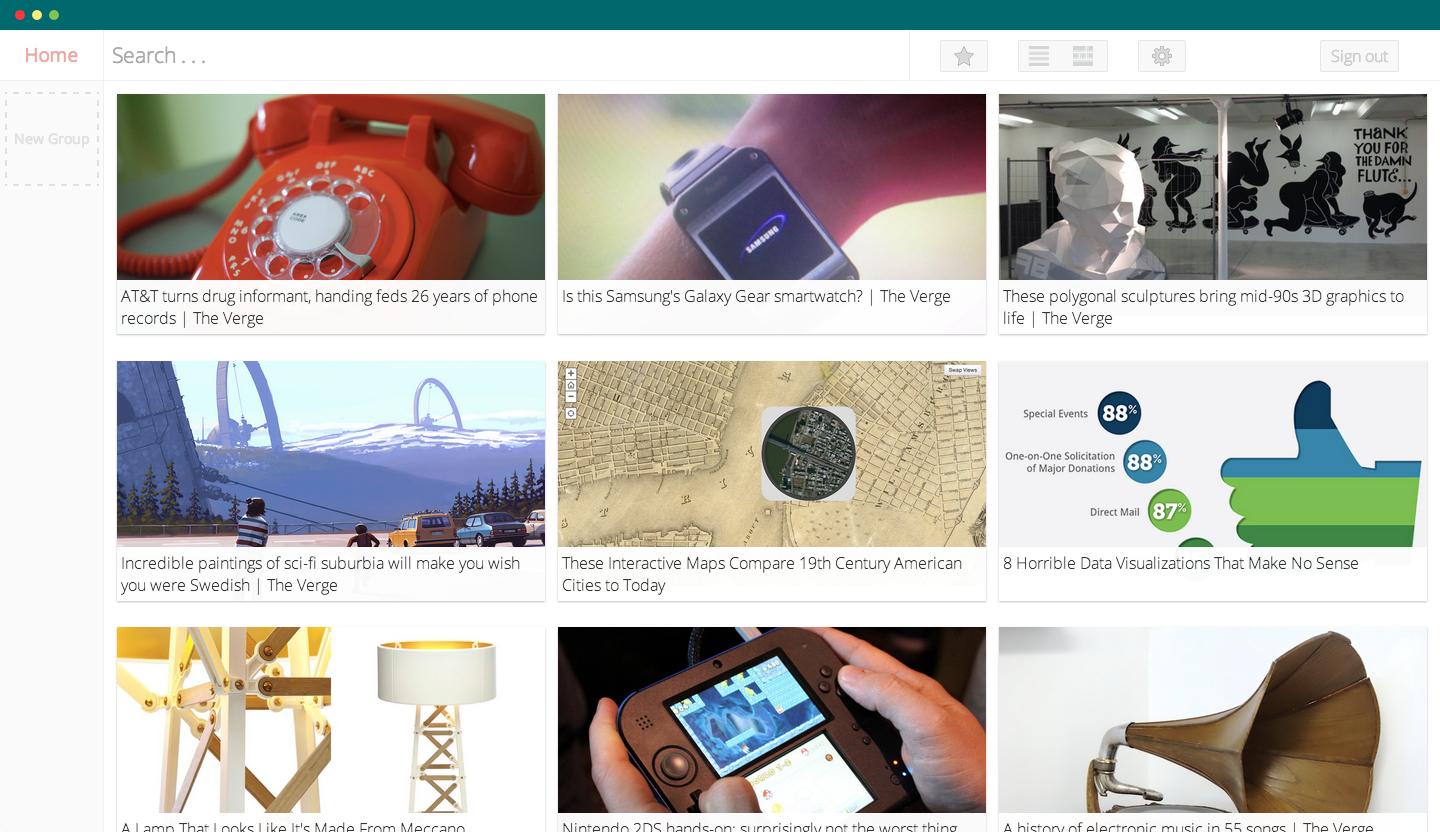
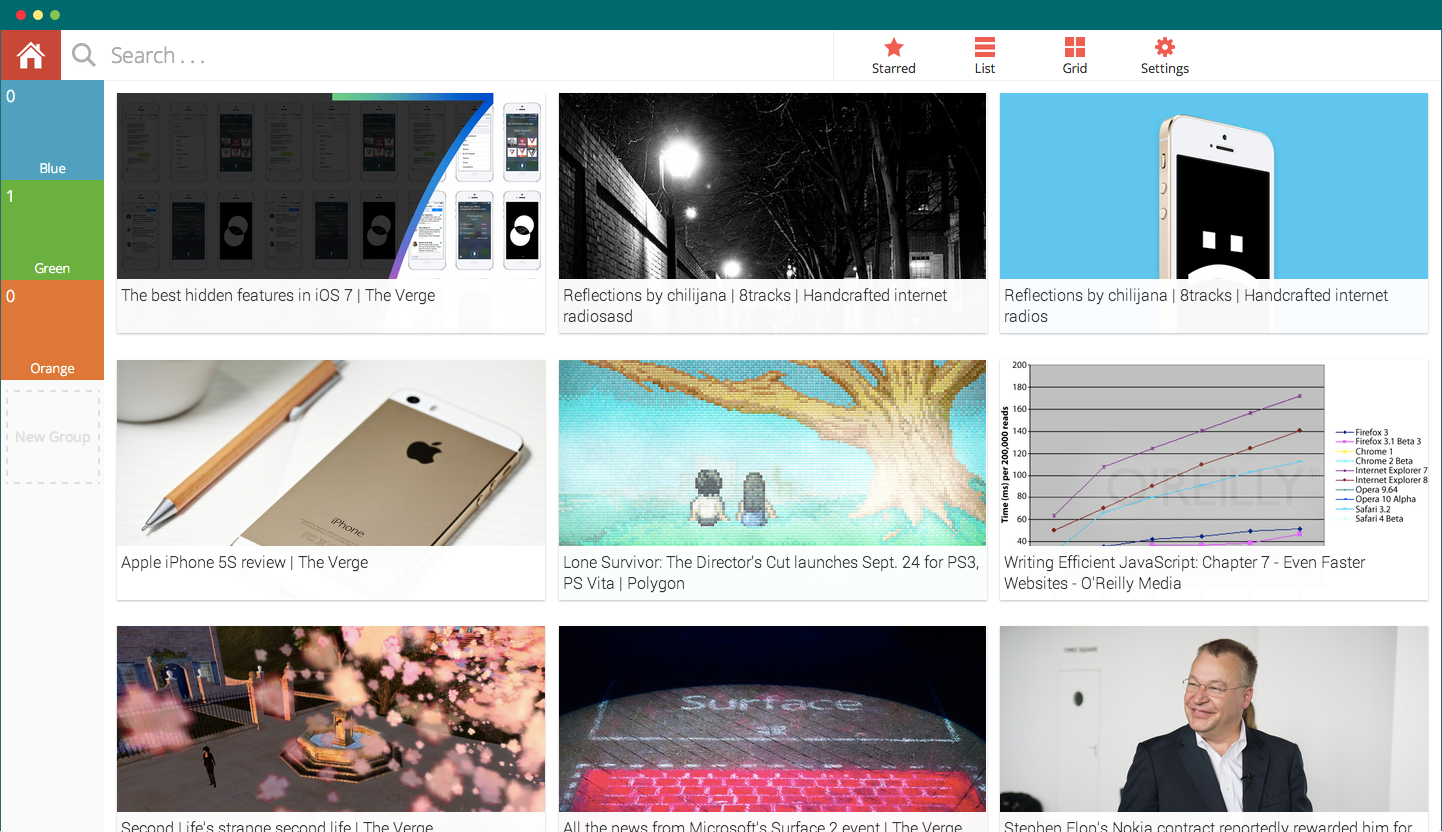
Fixes

diff --git a/static/css/user.css b/static/css/user.css
@@ -155,7 +155,7 @@ a {
 .palette-color-grey {
 	background: #A3A3A3;
 }
-.group:hover .bookmarks-group-actions {
+.group-box:hover .bookmarks-group-actions {
 	-webkit-transform: translateX(0);
 	-ms-transform: translateX(0);
 	transform: translateX(0);
@@ -265,12 +265,18 @@ a {
 	margin: 20px auto;
 	padding: 6px 14px;
 	color: #343534;
-	font-size: 0.8rem;
+	font-size: 0.9rem;
 	font-weight: 400;
 	text-align: center;
 	text-transform: uppercase;
-	border-radius: 2px;
-	background: #DFDFDF;
+	border-radius: 4px;
+	background: #fff;
+	border: solid 2px #DB4A39;
+	-webkit-transition: color 0.3s;
+	transition: color 0.3s;
+}
+#sign-out:hover {
+	color: #DB4A39;
 }
 .bookmarks-section {
 	margin-left: 103px;
@@ -401,14 +407,6 @@ a {
 	width: 30%;
 	margin-right: 0;
 }
-.add-tag {
-	margin: 0 2% 0 0;
-	float: left;
-	font-size: 1rem;
-	font-weight: 300;
-	cursor: pointer;
-	color: #343534;
-}
 .bookmark-tags-wrap {
 	display: inline-block;
 }
@@ -534,6 +532,9 @@ a {
 .edit-title {
 	background-image: url(../images/user/edit-icon.png);
 }
+.add-tag {
+	background-image: url(../images/user/add-tag.png);
+}
 .copy-link {
 	background-image: url(../images/user/copy-icon.png);
 }
@@ -555,6 +556,10 @@ a {
 }
 .grd-bookmark-star {
 	margin: 5px;
+}
+.grd-bookmark-tags-wrap {
+	position: absolute;
+	right: 40px;
 }
 .grd-bookmark-delete {
 	display: block;
@@ -591,7 +596,7 @@ a {
 	top: 50px;
 	background: #fff;
 	border: solid 1px #E6E6E6;
-	z-index: 1;
+	z-index: 2;
 	-webkit-transition: 0.3s;
 	transition: 0.3s;
 }
@@ -717,6 +722,10 @@ a {
 	outline: 0;
 	text-decoration: underline;
 }
+.bookmarks-group-name,
+.bookmarks-group-count {
+	-webkit-backface-visibility: hidden;
+}
 @media screen and (max-width: 1023px) {
 
 	.content-header {
@@ -769,7 +778,17 @@ a {
 	.delete-mobile {
 		display: none;
 	}
-
+	.import-data {
+		display: none;
+	}
+	.bookmarks-group-actions {
+		width: 25%;
+		height: 75px;
+		float: left;
+		-webkit-transform: translateX(0);
+		-ms-transform: translateX(0);
+		transform: translateX(0);
+	}
 }
 @media screen and (max-width: 800px) {
 	.grid-tmpl {
@@ -850,7 +869,24 @@ a {
 	#tags-block {
 		display: none;
 	}
+	.browser-extensions-box {
+		width: 96%;
+		margin: 15px auto 0;
+	}
+	.help-arrows {
+		width: 100%;
+		margin-top: -50px;
+	}
+	.browser-extensions-icon {
+		height: 31px;
+		margin: 0 8px;
+	}
+	.new-user-text {
+		font-size: 1.2rem;
+	}
 }
 @media screen and (min-width: 320px) and (max-width: 320px) {
-
+	.beta-warning {
+		font-size: 1rem;
+	}
 }

diff --git a/templates/user/index.html b/templates/user/index.html
@@ -28,8 +28,8 @@
 					<label class="settings-form-label" for="testda">New password</label>
 					<input class="settings-form-input" type="text" name="testda">
 				</div>
-				<h2 class="settings-type">Data</h2>
-				<div class="settings-form-section">
+				<h2 class="settings-type import-data">Data</h2>
+				<div class="settings-form-section import-data">
 					<label class="settings-form-label label-medium" for="testda">Import bookmarks</label>
 					<input class="settings-import-button" type="file" value="Select file">
 				</div>
@@ -90,6 +90,7 @@
 			<ul class="bookmark-menu-list">
 				<li class="bookmark-menu-list-item to-group">Add to group</li>
 				<li class="bookmark-menu-list-item edit-title">Rename Title</li>
+				<li class="bookmark-menu-list-item add-tag">Add tag</li>
 				<li class="bookmark-menu-list-item copy-link">Copy Link</li>
 				<li class="bookmark-menu-list-item star-mobile <%= starred ? 'starred-mobile' : '' %>"><%= starred ? 'Starred' : 'Star' %></li>
 				<li class="bookmark-menu-list-item delete-mobile">Delete</li>
@@ -101,7 +102,6 @@
 		<a class="lst-bookmark-url" href="<%= url %>" target="_blank"><%= url %></a>
 	</div>	
 	<div class="lst-bookmark-val-block" id="tags-block">
-		<span class="add-tag" title="Add new tag">+</span>
 		<% if (tag) { %>
 			<div class="bookmark-tags-wrap">
 				<span class="bookmark-tags"> <%= tag %> </span>
@@ -132,7 +132,7 @@
 		>
 			<% if ( image ) {%>
 			<span class="bookmark-title grd-bookmark-title" title="<%= title %>"><%= title %></span>
-			<% } %>
+			<% } %>	
 			<div class="grd-bookmark-settings">
 				<div class="bookmark-menu-wrap grd-bookmark-menu-wrap">
 					<div class="bookmark-menu-line grd-bookmark-menu-line"></div>
@@ -142,10 +142,17 @@
 				<div class="bookmark-menu grd-bookmark-menu">
 					<ul class="bookmark-menu-list">
 						<li class="bookmark-menu-list-item edit-title">Rename Title</li>
+						<li class="bookmark-menu-list-item add-tag">Add tag</li>
 						<li class="bookmark-menu-list-item copy-link">Copy Link</li>
 					</ul>
 				</div>
 				<span class="bookmark-star grd-bookmark-star <%= starred ? 'bookmark-starred' : '' %>"></span>
+				<% if (tag) { %>
+					<div class="bookmark-tags-wrap grd-bookmark-tags-wrap">
+						<span class="bookmark-tags"> <%= tag %> </span>
+						<span class="tag-delete">x</span>
+					</div>
+				<% } %>		
 				<span class="bookmark-delete grd-bookmark-delete"></span>
 			</div>
 		</div>

diff --git a/static/js/views/ContentView.js b/static/js/views/ContentView.js
@@ -188,9 +188,11 @@ var BookmarkView = Backbone.View.extend({
 		'click .bookmark-star': 'starBookmark',
 		'dragstart': 'dragStartEvent',
 		'dragend': 'dragEndEvent',
+
 		'click .edit-title': 'editBookmark',
 		'focus .bookmark-title': 'saveTitle',
 		'keypress .bookmark-title': 'onEnter',
+
 		'click .bookmark-menu-wrap': 'showMenu',
 		'click .copy-link': 'copyToClipboard',
 		'click .add-tag': 'addTag',
@@ -330,7 +332,7 @@ var BookmarkView = Backbone.View.extend({
 		url = bookmark.get('url').toLowerCase();
 		searchWord = searchWord.toLowerCase();
 
-		tag = bookmark.get('tag').toLowerCase();
+		//tag = bookmark.get('tag').toLowerCase();
 
 		if ( title.match(searchWord) || url.match(searchWord)/* || tag.match(searchWord)*/ ) {
 			this.$el.removeClass('hidden');
@@ -374,10 +376,11 @@ var BookmarkView = Backbone.View.extend({
 		titleField.removeAttr('contenteditable');
 
 		newval = titleField.text()
+		this.model.set({title: newval})
 
 		if (newval.length == 0) {
 			titleField.text(window.savedTitle);
-		} else {		
+		} else if ( this.model.hasChanged('title') ) {		
 			this.saveBookmark();
 		}
 	},

diff --git a/templates/index.html b/templates/index.html
@@ -54,7 +54,7 @@
 		<section class="bottom-features">
 			<div class="bottom-feature-box">
 				<img class="bottom-feature-image" src="{{ STATIC_URL }}images/cloud_platform.png" width="138" height="100" alt="App engine">
-				<p class="bottom-feature-text">The site is using Google App Engine for back-end, which offers us scalability and other cool things.</p>
+				<p class="bottom-feature-text">The site is using Google App Engine, which offers us scalability and other cool things.</p>
 			</div>
 			<div class="bottom-feature-box">
 				<h1 id="bottom-feature-beta">Beta</h1>

diff --git a/static/js/views/SidebarView.js b/static/js/views/SidebarView.js
@@ -166,7 +166,11 @@ var BookmarkCollectionView = Backbone.View.extend({
 
 	updateTitle: function() {
 		newval = titleField.text()
-		this.saveGroup(newval);
+		this.model.set({title: newval})
+
+		if ( this.model.hasChanged('title') ) {
+			this.saveGroup(newval)
+		}
 	},
 
 	saveGroup: function(newval) {
